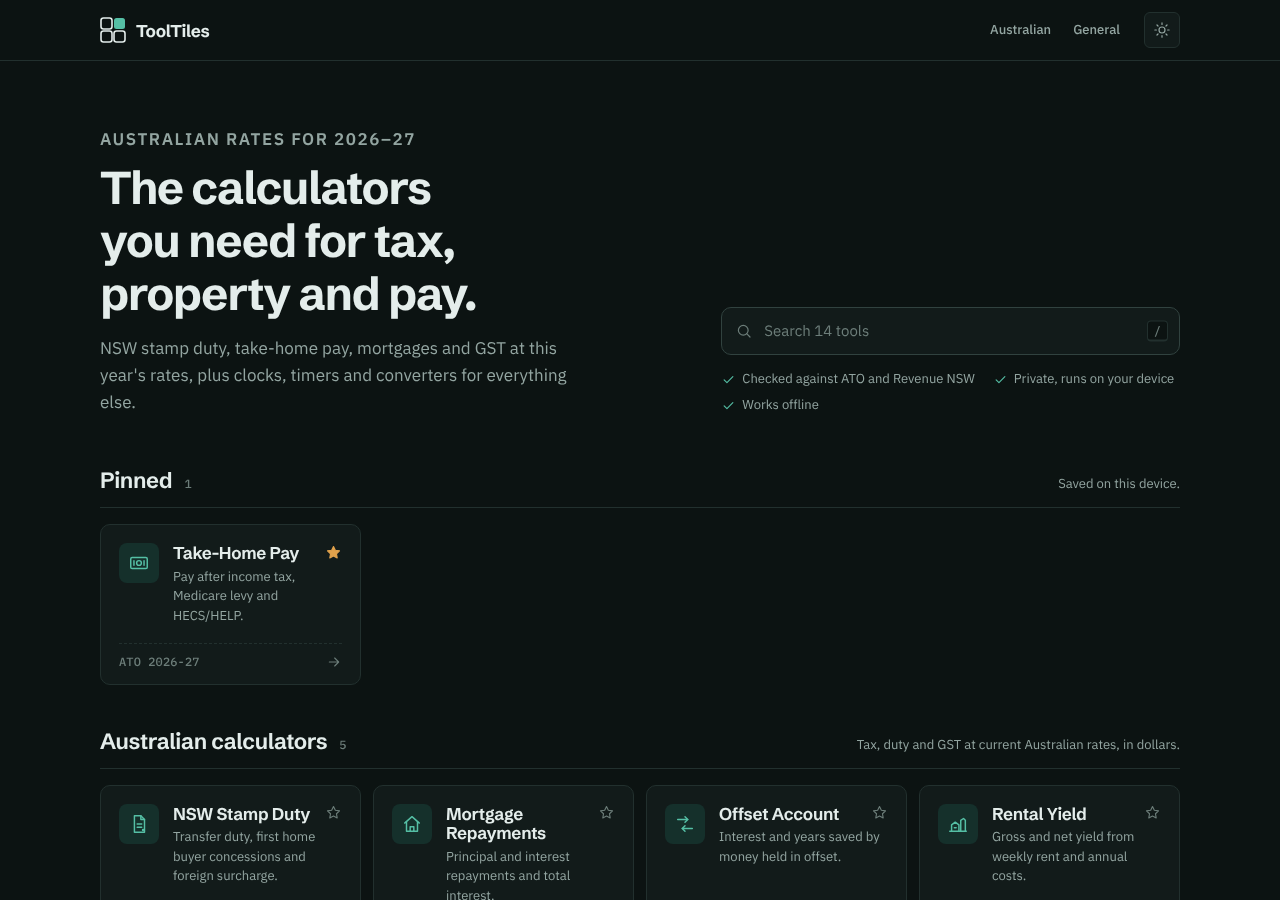
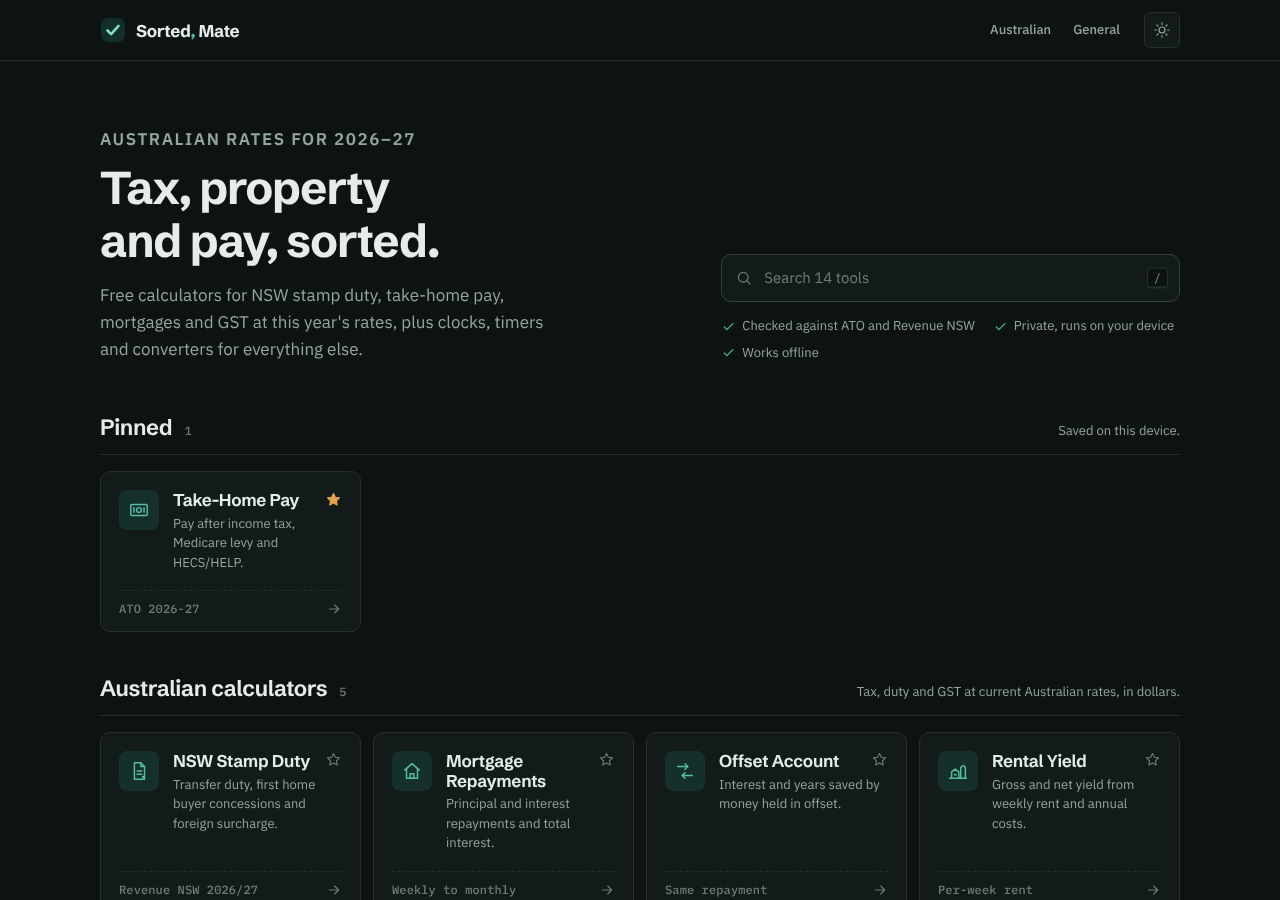
Rename site to Sorted, Mate
- SITE_NAME, page titles, manifest, cache name, package name, README
- New brand mark: a tick in a rounded square, with the wordmark comma
  in the accent colour; new app icon to match
- Home headline now "Tax, property and pay, sorted."
- Timer restores the page's own title instead of a hardcoded one

Claude-Session: https://claude.ai/code/session_018hVydzqsSRrhxrAGPUdeoP

diff --git a/js/layout.js b/js/layout.js
@@ -16,14 +16,13 @@ function safeSet(k, v) { try { localStorage.setItem(k, v); } catch { /* storage 
 const savedTheme = safeGet('theme');
 if (savedTheme) root.dataset.theme = savedTheme;
 
-// Brand mark: four tiles, one filled — the "pinned" tile.
+// Brand mark: a tick in a rounded square, i.e. "sorted".
 const MARK = `<svg class="brand-mark" viewBox="0 0 26 26" aria-hidden="true" focusable="false">
-  <rect x="1" y="1" width="11" height="11" rx="2.5" fill="none" stroke="currentColor" stroke-width="1.6"/>
-  <rect x="14" y="1" width="11" height="11" rx="2.5" fill="var(--accent)"/>
-  <rect x="1" y="14" width="11" height="11" rx="2.5" fill="none" stroke="currentColor" stroke-width="1.6"/>
-  <rect x="14" y="14" width="11" height="11" rx="2.5" fill="none" stroke="currentColor" stroke-width="1.6"/>
+  <rect x="1" y="1" width="24" height="24" rx="7" fill="var(--readout)"/>
+  <path d="M7.5 13.5l3.6 3.6 7.4-8.2" fill="none" stroke="var(--readout-accent)" stroke-width="2.6" stroke-linecap="round" stroke-linejoin="round"/>
 </svg>`;
-const brand = `<a class="brand" href="${base}">${MARK}<span>${SITE_NAME}</span></a>`;
+const wordmark = SITE_NAME.replace(',', '<span class="brand-comma">,</span>');
+const brand = `<a class="brand" href="${base}" aria-label="${SITE_NAME} home">${MARK}<span>${wordmark}</span></a>`;
 
 const header = document.createElement('header');
 header.className = 'site-header';

diff --git a/index.html b/index.html
@@ -3,7 +3,7 @@
 <head>
   <meta charset="utf-8">
   <meta name="viewport" content="width=device-width, initial-scale=1">
-  <title>ToolTiles — Free Australian calculators, timers and everyday tools</title>
+  <title>Sorted, Mate — Free Australian calculators and everyday tools</title>
   <meta name="description" content="Free Australian calculators and everyday tools in one place: NSW stamp duty, take-home pay, mortgage, offset, rental yield, GST, compound interest, world clock, timers and converters. No sign-up, works offline.">
   <script>try{var t=localStorage.getItem('theme');if(t)document.documentElement.dataset.theme=t}catch(e){}</script>
   <link rel="stylesheet" href="css/style.css">
@@ -18,8 +18,8 @@
     <section class="hero">
       <div class="hero-copy">
         <p class="eyebrow">Australian rates for 2026–27</p>
-        <h1>The calculators you need for tax, property and pay.</h1>
-        <p>NSW stamp duty, take-home pay, mortgages and GST at this year's rates, plus clocks, timers and converters for everything else.</p>
+        <h1>Tax, property and pay, sorted.</h1>
+        <p>Free calculators for NSW stamp duty, take-home pay, mortgages and GST at this year's rates, plus clocks, timers and converters for everything else.</p>
       </div>
       <div class="hero-side">
         <div class="search-box">

diff --git a/privacy.html b/privacy.html
@@ -3,8 +3,8 @@
 <head>
   <meta charset="utf-8">
   <meta name="viewport" content="width=device-width, initial-scale=1">
-  <title>Privacy Policy | ToolTiles</title>
-  <meta name="description" content="How ToolTiles handles your information: calculations run in your browser, what is stored on your device, and how advertising cookies work.">
+  <title>Privacy Policy | Sorted, Mate</title>
+  <meta name="description" content="How Sorted, Mate handles your information: calculations run in your browser, what is stored on your device, and how advertising cookies work.">
   <script>try{var t=localStorage.getItem('theme');if(t)document.documentElement.dataset.theme=t}catch(e){}</script>
   <link rel="stylesheet" href="css/style.css">
   <link rel="icon" href="img/icon.svg" type="image/svg+xml">

diff --git a/js/pages/timer.js b/js/pages/timer.js
@@ -6,7 +6,8 @@ const $d = $('display'), $start = $('start');
 let remaining = 300000, endAt = 0, running = false, interval = 0, audioCtx;
 
 const inputMs = () => ((+$('h').value || 0) * 3600 + (+$('m').value || 0) * 60 + (+$('s').value || 0)) * 1000;
-const show = (ms) => { $d.textContent = formatDuration(Math.ceil(ms / 1000) * 1000, { showMs: false }); document.title = running ? `${$d.textContent} — Timer` : 'Countdown Timer | ToolTiles'; };
+const baseTitle = document.title;
+const show = (ms) => { $d.textContent = formatDuration(Math.ceil(ms / 1000) * 1000, { showMs: false }); document.title = running ? `${$d.textContent} — Timer` : baseTitle; };
 
 function beep() {
   try {

diff --git a/tools/world-clock.html b/tools/world-clock.html
@@ -3,7 +3,7 @@
 <head>
   <meta charset="utf-8">
   <meta name="viewport" content="width=device-width, initial-scale=1">
-  <title>World Clock — Time in Cities Around the World | ToolTiles</title>
+  <title>World Clock — Time in Cities Around the World | Sorted, Mate</title>
   <meta name="description" content="Live world clock. Compare the current time in Sydney, London, New York, Delhi, Tokyo and more. Add your own cities.">
   <script>try{var t=localStorage.getItem('theme');if(t)document.documentElement.dataset.theme=t}catch(e){}</script>
   <meta property="og:title" content="World Clock — Time in Cities Around the World">

diff --git a/css/style.css b/css/style.css
@@ -88,6 +88,7 @@ main.wrap { padding-block: 0 72px; }
 .brand { display: inline-flex; align-items: center; gap: 10px; margin-right: auto; color: var(--ink); text-decoration: none; font: 700 1.0625rem/1 var(--font-display); letter-spacing: -.02em; }
 .brand:hover { color: var(--ink); }
 .brand-mark { width: 26px; height: 26px; }
+.brand-comma { color: var(--accent); }
 .nav { display: flex; gap: 2px; margin-right: 6px; }
 .nav a { padding: 7px 10px; border-radius: var(--r-sm); color: var(--muted); text-decoration: none; font-size: var(--t-sm); font-weight: 500; }
 .nav a:hover { color: var(--ink); background: var(--sunken); }

diff --git a/tools/gst.html b/tools/gst.html
@@ -3,7 +3,7 @@
 <head>
   <meta charset="utf-8">
   <meta name="viewport" content="width=device-width, initial-scale=1">
-  <title>GST Calculator Australia — Add or Remove 10% GST | ToolTiles</title>
+  <title>GST Calculator Australia — Add or Remove 10% GST | Sorted, Mate</title>
   <meta name="description" content="Free Australian GST calculator. Add 10% GST to a price or work out the GST included in a total.">
   <script>try{var t=localStorage.getItem('theme');if(t)document.documentElement.dataset.theme=t}catch(e){}</script>
   <meta property="og:title" content="GST Calculator Australia — Add or Remove 10% GST">

diff --git a/tools/stamp-duty-nsw.html b/tools/stamp-duty-nsw.html
@@ -3,7 +3,7 @@
 <head>
   <meta charset="utf-8">
   <meta name="viewport" content="width=device-width, initial-scale=1">
-  <title>NSW Stamp Duty Calculator 2026/27 | ToolTiles</title>
+  <title>NSW Stamp Duty Calculator 2026/27 | Sorted, Mate</title>
   <meta name="description" content="Calculate NSW transfer (stamp) duty using 2026/27 Revenue NSW rates, including first home buyer exemption and foreign purchaser surcharge.">
   <script>try{var t=localStorage.getItem('theme');if(t)document.documentElement.dataset.theme=t}catch(e){}</script>
   <meta property="og:title" content="NSW Stamp Duty Calculator 2026/27">

diff --git a/tools/take-home-pay.html b/tools/take-home-pay.html
@@ -3,7 +3,7 @@
 <head>
   <meta charset="utf-8">
   <meta name="viewport" content="width=device-width, initial-scale=1">
-  <title>Take-Home Pay Calculator Australia 2026-27 | ToolTiles</title>
+  <title>Take-Home Pay Calculator Australia 2026-27 | Sorted, Mate</title>
   <meta name="description" content="Australian after-tax pay calculator using 2026-27 resident tax rates, Medicare levy and low income tax offset.">
   <script>try{var t=localStorage.getItem('theme');if(t)document.documentElement.dataset.theme=t}catch(e){}</script>
   <meta property="og:title" content="Take-Home Pay Calculator Australia 2026-27">

diff --git a/tools/rental-yield.html b/tools/rental-yield.html
@@ -3,7 +3,7 @@
 <head>
   <meta charset="utf-8">
   <meta name="viewport" content="width=device-width, initial-scale=1">
-  <title>Rental Yield Calculator (Australia) | ToolTiles</title>
+  <title>Rental Yield Calculator (Australia) | Sorted, Mate</title>
   <meta name="description" content="Calculate gross and net rental yield for an Australian investment property from price, weekly rent and annual costs.">
   <script>try{var t=localStorage.getItem('theme');if(t)document.documentElement.dataset.theme=t}catch(e){}</script>
   <meta property="og:title" content="Rental Yield Calculator (Australia)">

diff --git a/tools/compound-interest.html b/tools/compound-interest.html
@@ -3,7 +3,7 @@
 <head>
   <meta charset="utf-8">
   <meta name="viewport" content="width=device-width, initial-scale=1">
-  <title>Compound Interest Calculator (Australia) | ToolTiles</title>
+  <title>Compound Interest Calculator (Australia) | Sorted, Mate</title>
   <meta name="description" content="Free compound interest calculator with regular deposits. See how savings grow year by year.">
   <script>try{var t=localStorage.getItem('theme');if(t)document.documentElement.dataset.theme=t}catch(e){}</script>
   <meta property="og:title" content="Compound Interest Calculator (Australia)">

diff --git a/tools/unit-converter.html b/tools/unit-converter.html
@@ -3,7 +3,7 @@
 <head>
   <meta charset="utf-8">
   <meta name="viewport" content="width=device-width, initial-scale=1">
-  <title>Unit Converter — Metric and Imperial | ToolTiles</title>
+  <title>Unit Converter — Metric and Imperial | Sorted, Mate</title>
   <meta name="description" content="Convert length, weight, volume, area, speed and temperature between metric and imperial units.">
   <script>try{var t=localStorage.getItem('theme');if(t)document.documentElement.dataset.theme=t}catch(e){}</script>
   <meta property="og:title" content="Unit Converter — Metric and Imperial">
